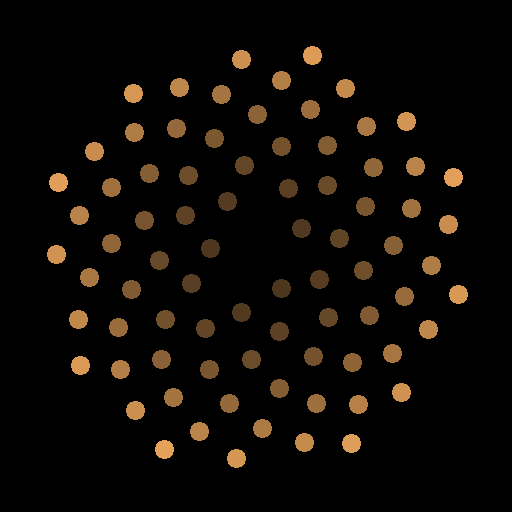
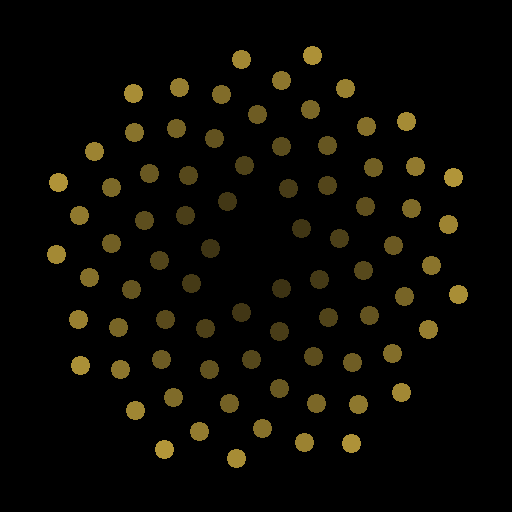
Add Seed theme as default, branding assets, and README
- Add botanical gold "Seed" theme (#C8A840) as the default, reflecting
  Vogel's Model phyllotaxis origins (sunflower seeds, vascular tissue)
- Replace favicon with mathematically correct Vogel spiral (Emergence design)
- Create logo.svg (spiral icon + VOGEL-TIMER text) for panel and README
- Add logo header to settings drawer
- Write trilingual README (English, Japanese, German)
- Regenerate PWA icons in Seed color
- Bump service worker cache to v2

diff --git a/dist/bundle.js b/dist/bundle.js
@@ -420,6 +420,7 @@ function drawClock(ctx, remainingMs2, cx, cy, voidRadius, _shapeType, rgb, glowI
 
 // src/engine/renderer.ts
 var CLOCK_THEMES = [
+  { name: "Seed", segmentRGB: [200, 168, 64], grainRGB: [210, 185, 90], glowIntensity: 1.1 },
   { name: "Nixie", segmentRGB: [255, 147, 41], grainRGB: [255, 180, 100], glowIntensity: 1.2 },
   { name: "System", segmentRGB: [0, 255, 65], grainRGB: [120, 255, 140], glowIntensity: 0.8 },
   { name: "Studio", segmentRGB: [220, 220, 230], grainRGB: [230, 230, 240], glowIntensity: 1 },
@@ -859,6 +860,7 @@ var CSS = `
 .vt-sys-btn:hover { color: rgba(255,255,255,0.55); background: rgba(255,255,255,0.04); }
 `;
 var LED_COLORS = {
+  seed: "#C8A840",
   nixie: "#FF8C00",
   system: "#00FF41",
   studio: "#FFFFFF",
@@ -911,6 +913,10 @@ function createConsole(container, initialDuration, initialResolution, initialDir
   }
   btnSettings.addEventListener("click", () => toggleDrawer());
   overlay.addEventListener("click", () => toggleDrawer(false));
+  const logoHeader = document.createElement("div");
+  logoHeader.style.cssText = "text-align:center; margin-bottom:20px; padding-bottom:16px; border-bottom:1px solid rgba(255,255,255,0.06);";
+  logoHeader.innerHTML = `<img src="logo.svg" alt="VOGEL-TIMER" style="width:220px; height:auto; opacity:0.85;">`;
+  drawer.appendChild(logoHeader);
   const timerSection = document.createElement("div");
   timerSection.className = "vt-section";
   timerSection.innerHTML = '<div class="vt-section-title">TIMER</div>';
@@ -1040,7 +1046,7 @@ function createConsole(container, initialDuration, initialResolution, initialDir
   themeSection.innerHTML = '<div class="vt-section-title">THEME</div>';
   const themeStrip = document.createElement("div");
   themeStrip.className = "vt-theme-strip";
-  const themeNames = ["nixie", "system", "studio", "cyber"];
+  const themeNames = ["seed", "nixie", "system", "studio", "cyber"];
   for (const name of themeNames) {
     const chip = document.createElement("div");
     chip.className = "vt-theme-chip";
@@ -1179,7 +1185,7 @@ var DEFAULTS = {
   dir: "in-out",
   shape: "circle",
   dash: true,
-  theme: "nixie",
+  theme: "seed",
   s: 0
 };
 var STORAGE_KEY = "vogel-timer-settings";

diff --git a/src/components/console.ts b/src/components/console.ts
@@ -193,6 +193,7 @@ const CSS = `
 
 // ── LED colors ──
 const LED_COLORS: Record<string, string> = {
+  seed:   '#C8A840',
   nixie:  '#FF8C00',
   system: '#00FF41',
   studio: '#FFFFFF',
@@ -283,6 +284,12 @@ export function createConsole(
 
   btnSettings.addEventListener('click', () => toggleDrawer());
   overlay.addEventListener('click', () => toggleDrawer(false));
+
+  // ── Logo header ──
+  const logoHeader = document.createElement('div');
+  logoHeader.style.cssText = 'text-align:center; margin-bottom:20px; padding-bottom:16px; border-bottom:1px solid rgba(255,255,255,0.06);';
+  logoHeader.innerHTML = `<img src="logo.svg" alt="VOGEL-TIMER" style="width:220px; height:auto; opacity:0.85;">`;
+  drawer.appendChild(logoHeader);
 
   // ── TIMER section ──
   const timerSection = document.createElement('div');
@@ -433,7 +440,7 @@ export function createConsole(
 
   const themeStrip = document.createElement('div');
   themeStrip.className = 'vt-theme-strip';
-  const themeNames = ['nixie', 'system', 'studio', 'cyber'];
+  const themeNames = ['seed', 'nixie', 'system', 'studio', 'cyber'];
   for (const name of themeNames) {
     const chip = document.createElement('div');
     chip.className = 'vt-theme-chip';

diff --git a/scripts/gen-icons.js b/scripts/gen-icons.js
@@ -100,10 +100,10 @@ function drawIcon(data, w, h) {
           if (ix >= 0 && ix < w && iy >= 0 && iy < h) {
             const idx = (iy * w + ix) * 4;
             const a = alpha;
-            // Nixie orange: RGB(255, 180, 100)
-            data[idx + 0] = Math.min(255, data[idx + 0] + Math.round(255 * a));
-            data[idx + 1] = Math.min(255, data[idx + 1] + Math.round(180 * a));
-            data[idx + 2] = Math.min(255, data[idx + 2] + Math.round(100 * a));
+            // Seed gold: RGB(200, 168, 64)
+            data[idx + 0] = Math.min(255, data[idx + 0] + Math.round(200 * a));
+            data[idx + 1] = Math.min(255, data[idx + 1] + Math.round(168 * a));
+            data[idx + 2] = Math.min(255, data[idx + 2] + Math.round(64 * a));
           }
         }
       }

diff --git a/src/engine/renderer.ts b/src/engine/renderer.ts
@@ -27,7 +27,8 @@ export interface ClockTheme {
 }
 
 export const CLOCK_THEMES: ClockTheme[] = [
-  { name: 'Nixie',  segmentRGB: [255, 147, 41],  grainRGB: [255, 180, 100], glowIntensity: 1.2 },
+  { name: 'Seed',   segmentRGB: [200, 168, 64],   grainRGB: [210, 185, 90],  glowIntensity: 1.1 },
+  { name: 'Nixie',  segmentRGB: [255, 147, 41],   grainRGB: [255, 180, 100], glowIntensity: 1.2 },
   { name: 'System', segmentRGB: [0, 255, 65],     grainRGB: [120, 255, 140], glowIntensity: 0.8 },
   { name: 'Studio', segmentRGB: [220, 220, 230],  grainRGB: [230, 230, 240], glowIntensity: 1.0 },
   { name: 'Cyber',  segmentRGB: [0, 150, 255],    grainRGB: [80, 180, 255],  glowIntensity: 1.0 },

diff --git a/sw.js b/sw.js
@@ -3,7 +3,7 @@
  * Cache-first strategy for app shell, network-first for fonts.
  */
 
-const CACHE_NAME = 'vogel-timer-v1';
+const CACHE_NAME = 'vogel-timer-v2';
 const APP_SHELL = [
   './',
   './index.html',
@@ -13,6 +13,7 @@ const APP_SHELL = [
   './favicon.svg',
   './icon-192.png',
   './icon-512.png',
+  './logo.svg',
 ];
 
 // Install: pre-cache app shell

diff --git a/src/utils/url-params.ts b/src/utils/url-params.ts
@@ -21,7 +21,7 @@ const DEFAULTS: VogelParams = {
   dir: 'in-out',
   shape: 'circle',
   dash: true,
-  theme: 'nixie',
+  theme: 'seed',
   s: 0,
 };
 

diff --git a/README.md b/README.md
@@ -1,0 +1,106 @@
+<p align="center">
+  <img src="logo.svg" width="480" alt="VOGEL-TIMER">
+</p>
+
+<h3 align="center">Time does not tick down. It fills up.</h3>
+
+<p align="center">
+  <a href="#-english">English</a> |
+  <a href="#-日本語">日本語</a> |
+  <a href="#-deutsch">Deutsch</a>
+</p>
+
+---
+
+## 🇺🇸 English
+
+### The Geometry of Fulfillment
+
+**"Watch time complete itself through nature's most efficient pattern."**
+
+**VOGEL-TIMER** is a digital fidget timer that visualizes the passage of time as a Vogel spiral — the same golden-angle phyllotaxis that arranges sunflower seeds and galaxy arms. Instead of counting down, time *fills in*, particle by particle, until the spiral reaches completion.
+
+Each grain is placed at exactly 137.508 degrees from the last, the golden angle that nature uses to pack space with maximum efficiency and minimum waste. The result is a timer that feels less like a countdown and more like watching a flower bloom.
+
+### 🎛 Features
+- **Vogel Spiral Engine**: Every particle follows the golden angle. The spiral auto-scales to any duration from 10 seconds to 60 minutes.
+- **4 Shapes**: Circle, Square, Triangle, Pentagon — each transforms the spiral's character.
+- **7-Segment Dashboard**: A crisp vector display at the spiral's center shows remaining time in MM:SS:CC or HH:MM:SS format. Can be toggled off for a pure visual experience.
+- **Dual Direction**: Fill from center outward (bloom) or from edge inward (convergence).
+- **Resolution Control**: 0.1s, 0.25s, 0.5s, or 1s per particle — tune the density of your spiral.
+- **Completion Ritual**: Slow pulsing glow across all particles, then steady illumination until dismissed.
+- **PWA Ready**: Install as a standalone app on any device.
+
+---
+
+## 🇯🇵 日本語
+
+### 充足の幾何学
+
+**「時は刻むものではなく、満ちるものである。」**
+
+**VOGEL-TIMER** は、植物の葉序アルゴリズム「Vogel's Model」で時間の経過を可視化するデジタル・フィジェット・タイマーです。ひまわりの種の配列、銀河の渦巻き — 自然界が最も効率的に空間を埋める黄金角 137.508° の螺旋が、1粒ずつ静かに満ちていきます。
+
+カウントダウンではなく、カウントアップでもなく、「充足」。最後の1粒が打たれて螺旋が完成するその瞬間まで、ただ静かに満ちていく時を眺める体験を。
+
+### 🎛 特徴
+- **Vogel Spiral Engine**: 黄金角に従う螺旋配置。10秒から60分まで、あらゆる持続時間に自動スケーリング。
+- **4つの形状**: Circle, Square, Triangle, Pentagon — 形状が螺旋の表情を変える。
+- **7セグメント・ダッシュボード**: 螺旋中央のベクター描画7セグメント表示。OFFにすれば純粋なビジュアル・オブジェに。
+- **充填ディレクション**: 中心から外へ（開花）、外から中心へ（収束）。
+- **分解能コントロール**: 0.1s / 0.25s / 0.5s / 1s — 螺旋の粒度を調律。
+- **完了の余韻**: 全粒子がゆっくりと明滅した後、点灯したまま静止。停止するまで余韻が残る。
+- **PWA対応**: あらゆるデバイスにスタンドアロンアプリとしてインストール可能。
+
+---
+
+## 🇩🇪 Deutsch
+
+### Die Geometrie der Vollendung
+
+**„Zeit tickt nicht herunter. Sie erfüllt sich."**
+
+**VOGEL-TIMER** ist ein digitaler Fidget-Timer, der den Lauf der Zeit als Vogel-Spirale visualisiert — dieselbe Phyllotaxis im Goldenen Winkel, die Sonnenblumenkerne und Galaxienarme anordnet. Partikel für Partikel füllt sich die Spirale, bis sie ihre Vollendung erreicht.
+
+Jedes Korn wird exakt 137,508 Grad vom vorherigen platziert — der Goldene Winkel, mit dem die Natur den Raum mit maximaler Effizienz füllt. Das Ergebnis ist ein Timer, der sich weniger wie ein Countdown anfühlt und mehr wie das Aufblühen einer Blume.
+
+### 🎛 Funktionen
+- **Vogel-Spiral-Engine**: Jedes Partikel folgt dem Goldenen Winkel. Automatische Skalierung für Dauern von 10 Sekunden bis 60 Minuten.
+- **4 Formen**: Circle, Square, Triangle, Pentagon — jede Form verleiht der Spirale einen eigenen Charakter.
+- **7-Segment-Dashboard**: Eine gestochen scharfe Vektoranzeige im Zentrum der Spirale. Abschaltbar für ein reines visuelles Erlebnis.
+- **Zwei Richtungen**: Vom Zentrum nach außen (Erblühen) oder vom Rand nach innen (Konvergenz).
+- **Auflösungskontrolle**: 0,1s / 0,25s / 0,5s / 1s pro Partikel — die Dichte der Spirale abstimmen.
+- **Abschlussritual**: Langsames Pulsieren aller Partikel, dann stetige Beleuchtung bis zur Bestätigung.
+- **PWA-fähig**: Als eigenständige App auf jedem Gerät installierbar.
+
+---
+
+## 🎨 Themes / テーマ
+- **SEED**: Botanical gold of sunflower seeds and vascular tissue. / ひまわりの種と維管束の植物的ゴールド。
+- **NIXIE**: Amber glow of vintage Nixie tubes. / ニキシー管の残光。
+- **SYSTEM**: Classic matrix green from 80s computing. / 80年代の計算機グリーン。
+- **STUDIO**: Pure white for professional focus. / 清潔感のあるスタジオ・ホワイト。
+- **CYBER**: Electric blue for a high-tech night. / 深い夜に映えるネオンブルー。
+
+---
+
+## ⚙ Technical Specification / 技術仕様
+
+| | |
+|---|---|
+| **Algorithm** | Vogel's Model: golden-angle phyllotaxis |
+| **Rendering** | Dual-canvas architecture (static bake + dynamic overlay) |
+| **Timer** | Web Worker for drift-free timing |
+| **Dashboard** | Vector 7-segment with shadowBlur glow |
+| **Design** | Cyber-Minimal / Dark Mode Standard |
+| **Series** | Tipsy Tap Studio Digital Fidget Series |
+
+---
+
+## License
+
+This project is licensed under the [MIT License](LICENSE).
+
+---
+
+**Crafted by Tipsy Tap Studio**
